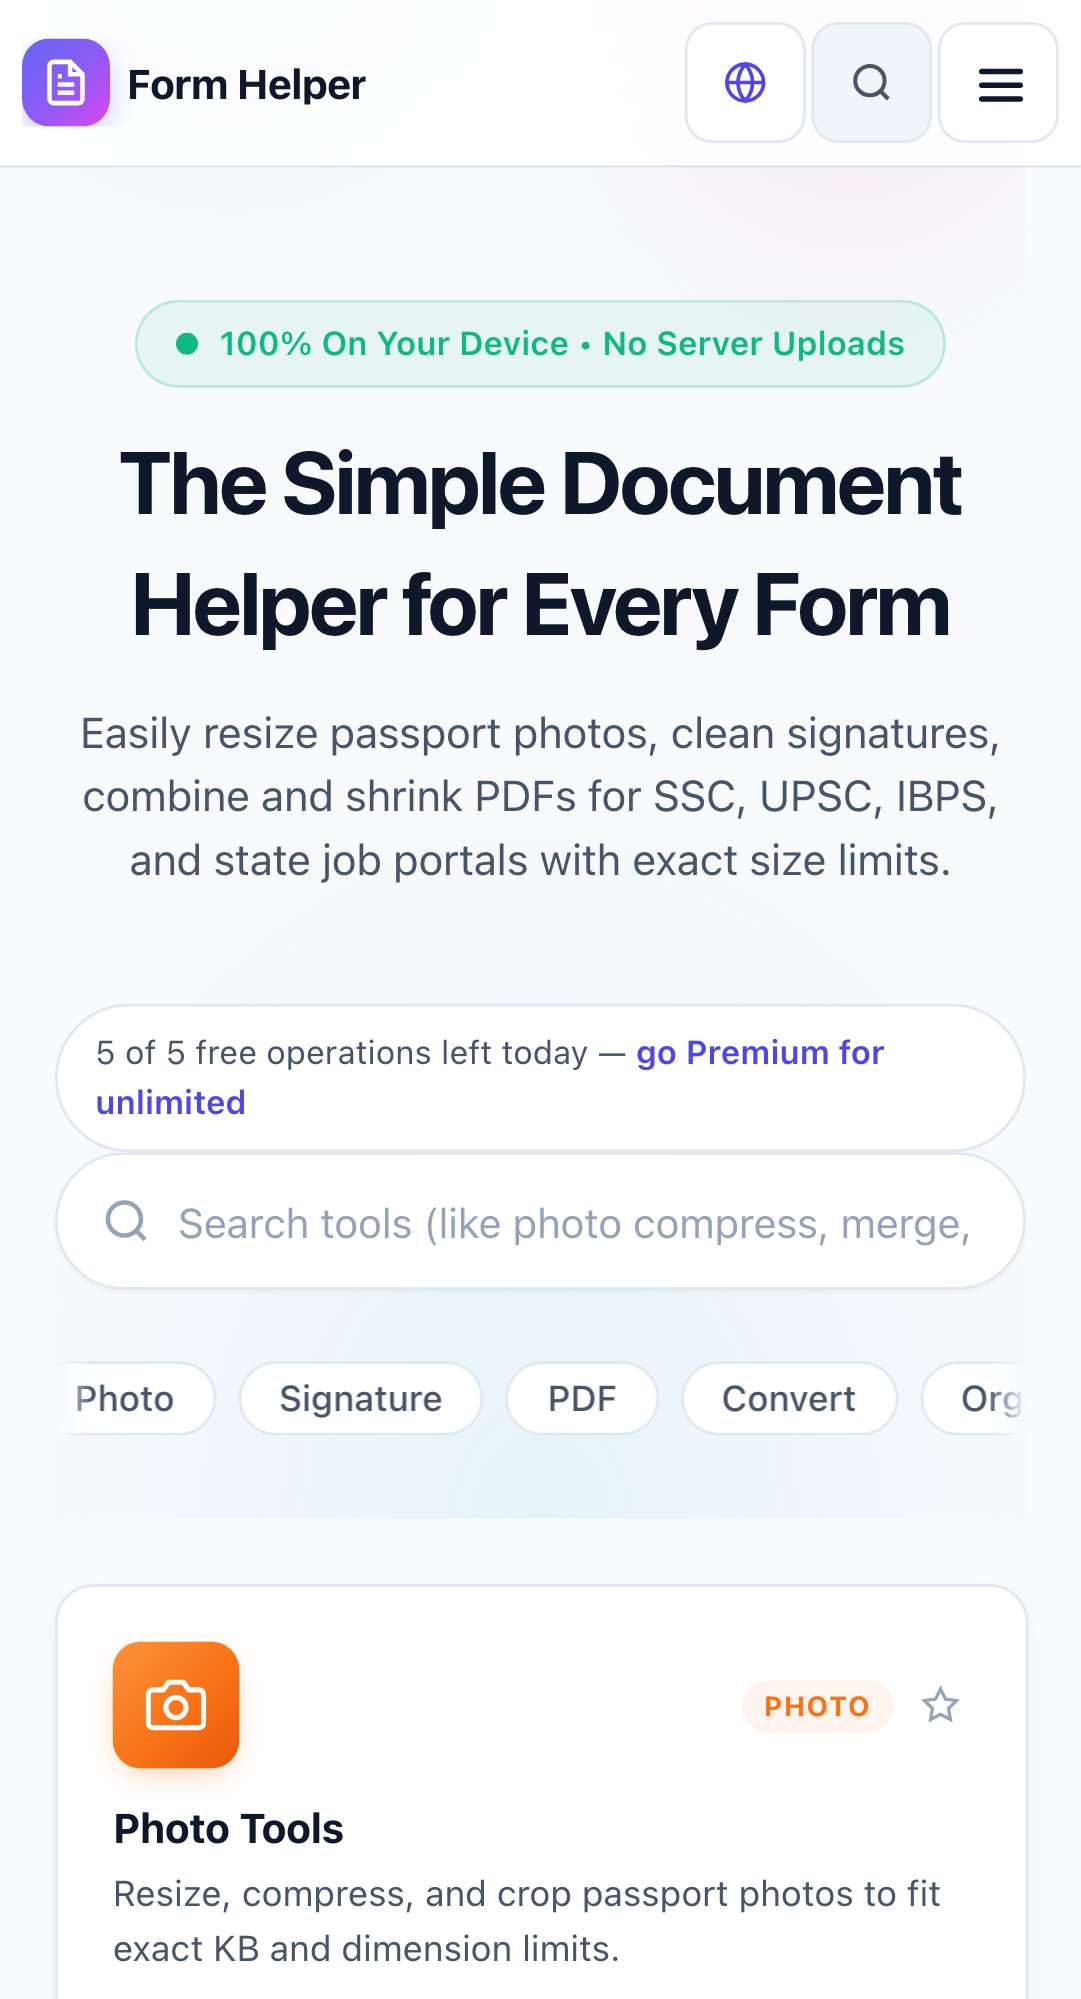
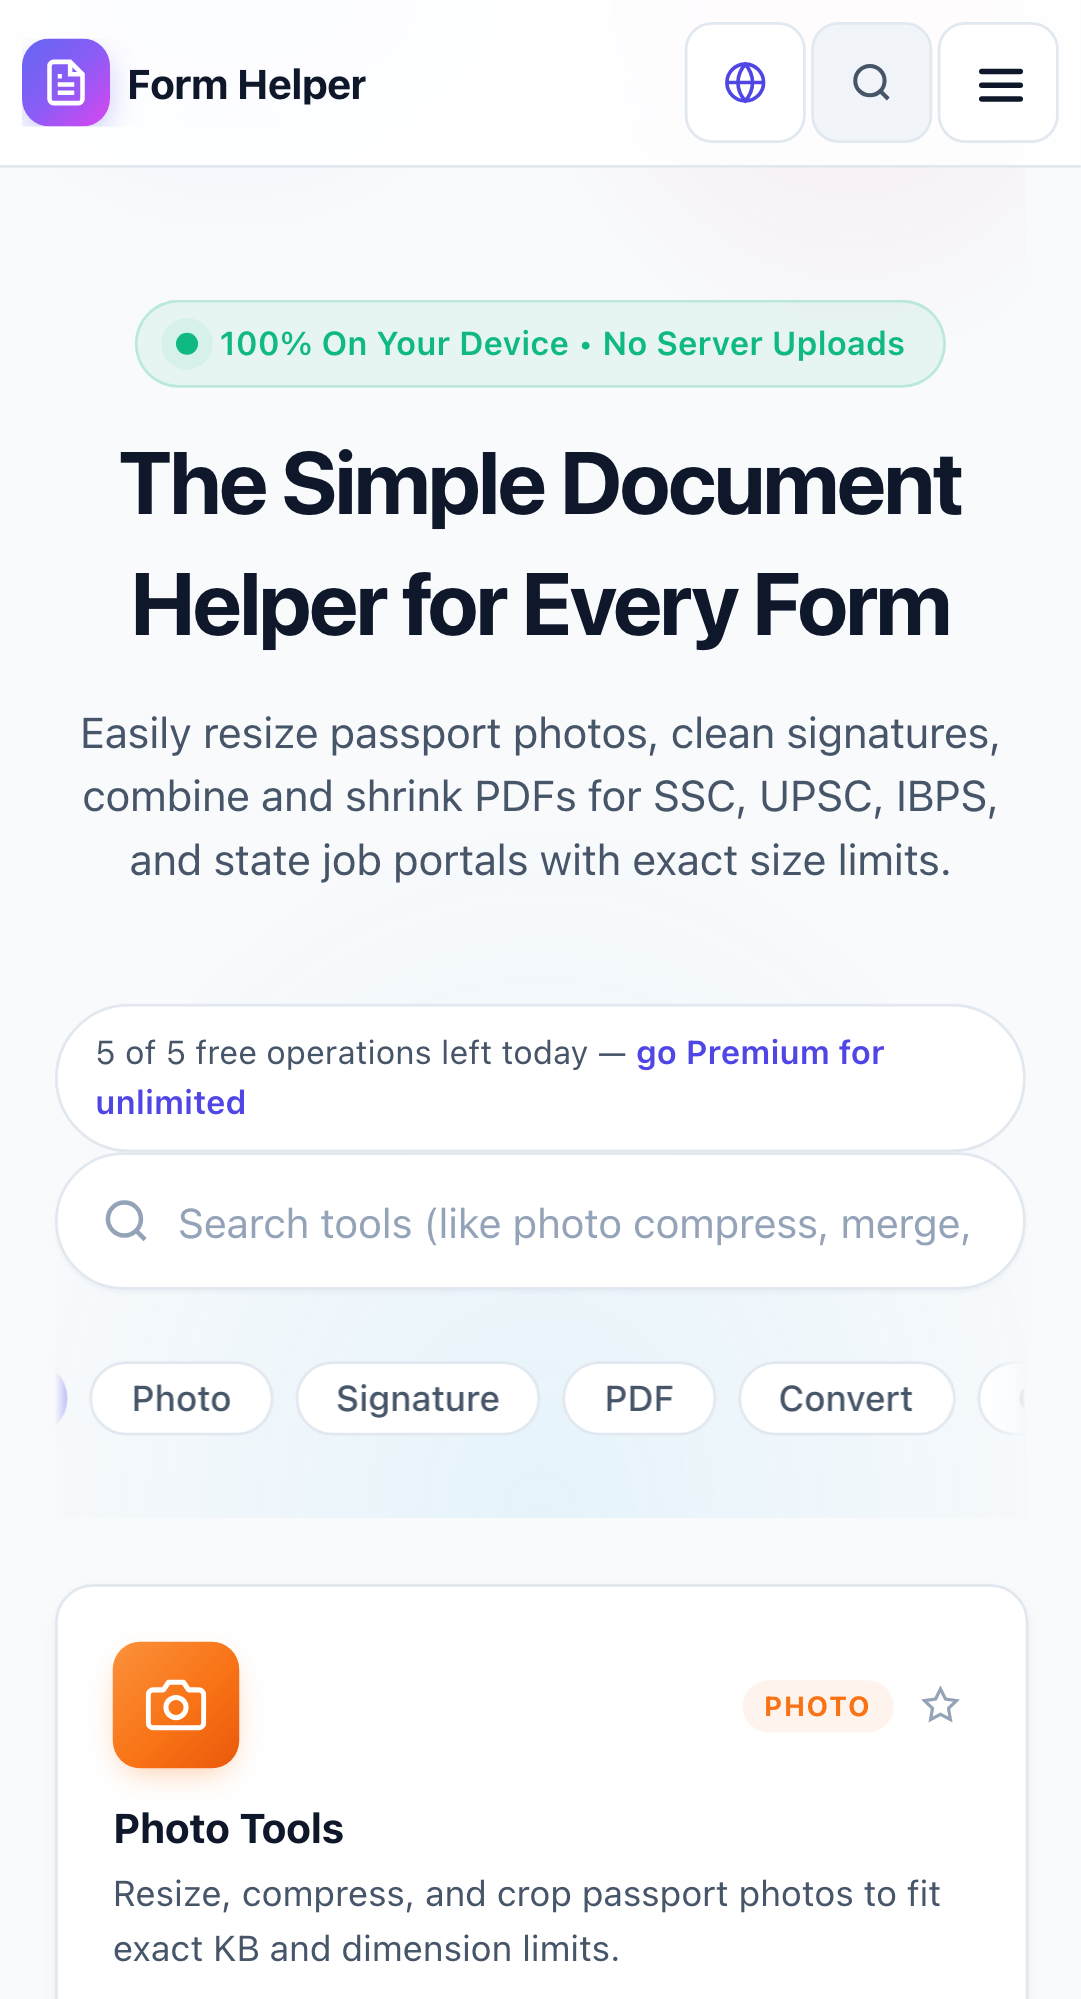
fix(home): prevent duplicate marquee tracking keys and adjust animation duration

Changed region(s): [[0.2442, 0.6823, 0.8548, 0.7134], [0.0611, 0.6823, 0.2137, 0.7134], [0.8853, 0.6823, 0.9463, 0.7134]]

diff --git a/src/app/home/home.page.html b/src/app/home/home.page.html
@@ -75,7 +75,7 @@
           <div class="category-marquee-track">
             <!-- First loop group -->
             <div class="category-marquee-group">
-              @for (cat of marqueeCategories; track cat) {
+              @for (cat of categories; track cat) {
                 <button
                   type="button"
                   class="cat-pill"
@@ -87,7 +87,7 @@
             </div>
             <!-- Second loop group (identical duplicate for seamless infinite right-to-left loop) -->
             <div class="category-marquee-group" aria-hidden="true">
-              @for (cat of marqueeCategories; track cat) {
+              @for (cat of categories; track cat) {
                 <button
                   type="button"
                   tabindex="-1"

diff --git a/src/app/home/home.page.scss b/src/app/home/home.page.scss
@@ -205,8 +205,15 @@
   display: flex;
   width: max-content;
   will-change: transform;
-  /* Continuously scrolls from right to left in an infinite, uninterrupted loop */
-  animation: category-marquee-scroll 38s linear infinite;
+  /*
+   * Continuously scrolls from right to left in an infinite, uninterrupted loop.
+   *
+   * The duration is coupled to the group width: the keyframe translates the
+   * track by -50%, which is exactly one group. One group is 11 pills, so 19s
+   * here is the same on-screen speed the old doubled 22-pill group had at 38s.
+   * Change how many categories render and this has to change with it.
+   */
+  animation: category-marquee-scroll 19s linear infinite;
 }
 
 .category-marquee-group {

diff --git a/src/app/home/home.page.ts b/src/app/home/home.page.ts
@@ -60,8 +60,14 @@ export class HomePage {
     'PRESETS'
   ];
 
+  /*
+   * Rendered twice by the template, as two sibling marquee groups -- that is
+   * what makes the scroll seamless. It is deliberately NOT a pre-doubled array:
+   * `@for` keyed on the value then sees every category twice and Angular warns
+   * (NG0955) and may reuse the wrong pill, on top of rendering four copies of a
+   * list that needs two.
+   */
   categories = HomePage.CATEGORY_LIST;
-  marqueeCategories = [...HomePage.CATEGORY_LIST, ...HomePage.CATEGORY_LIST];
 
   /*
    * Category -> icon name. The template previously carried eleven *ngIf'd inline
